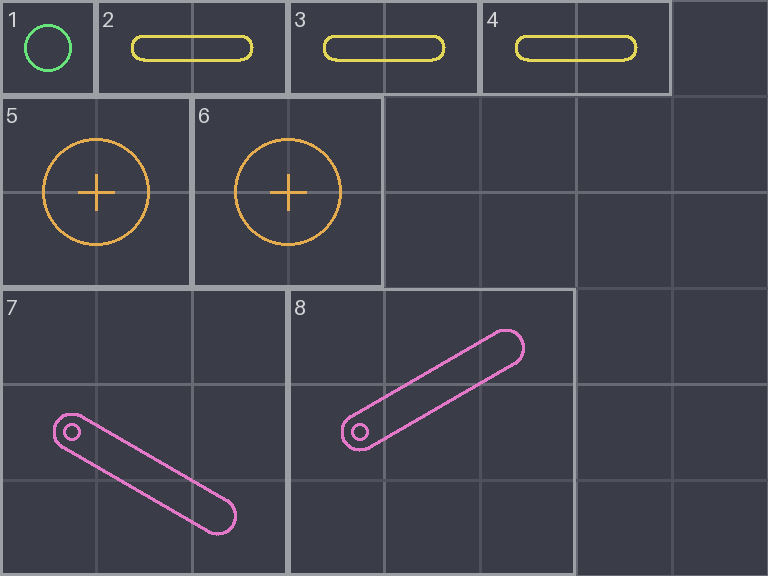
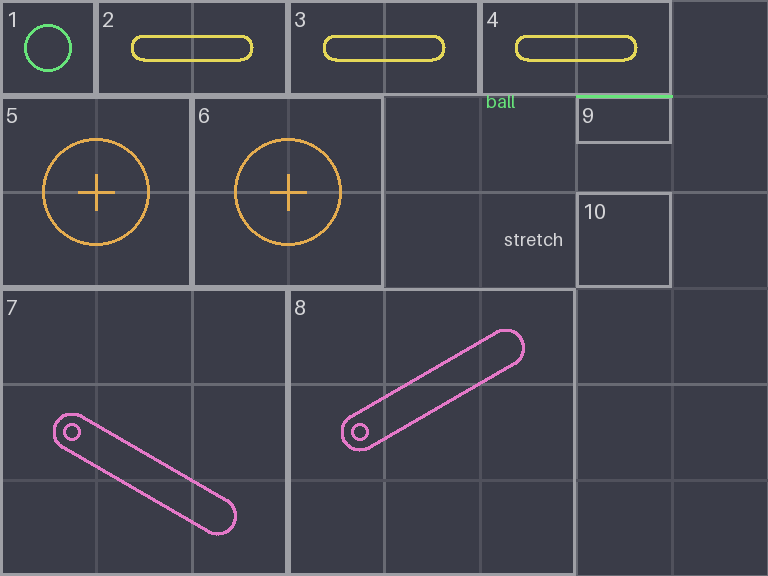
ピンボール：↓で打ち出しバネが沈み込み、離すと戻る演出（見た目のみ・絵が無ければ図形）
Claude-Session: https://claude.ai/code/session_01YTg7wkFtbfFHaZUyiFTSL5

Changed region(s): [[0.6562, 0.3125, 0.875, 0.5], [0.75, 0.1562, 0.875, 0.25], [0.625, 0.1562, 0.6875, 0.1875]]

diff --git a/SboCli/src/SboCliDrawScreen.cpp b/SboCli/src/SboCliDrawScreen.cpp
@@ -903,6 +903,103 @@ static void PbArtBltRot(CImg32 *pSrc, int sx, int sy, int nPivX, int nPivY, int 
 	}
 }
 
+/* 絵（w×h）を縦だけ dh 行に伸び縮みして (dx,dy) へ（最近傍。切り取り範囲の中だけ） */
+static void PbArtBltStretchV(CImg32 *pSrc, int sx, int sy, int w, int h, int dx, int dy, int dh)
+{
+	int r, i;
+	DWORD dwCl;
+
+	for (r = 0; r < dh; r ++) {
+		int y = dy + r, ys = sy + r * h / dh;
+		PDWORD pDst;
+		if ((y < s_nPzT) || (y >= s_nPzB)) {
+			continue;
+		}
+		pDst = (PDWORD)(g_pDibDrawMap->GetBits () + (size_t)(g_pDibDrawMap->Height () - 1 - y) * g_pDibDrawMap->Width () * 4);
+		for (i = 0; i < w; i ++) {
+			int x = dx + i;
+			if ((x < s_nPzL) || (x >= s_nPzR)) {
+				continue;
+			}
+			if (PbArtPixel (pSrc, sx + i, ys, &dwCl)) {
+				pDst[x] = dwCl;
+			}
+		}
+	}
+}
+
+/* 打ち出しのバネ（見た目だけ）：レーンの床の下に穴（暗い箱）を重ね、頭（受け皿）を nSpring ドット沈めて、コイルを縮める。
+   休み位置の球は頭の上に乗って一緒に沈む。絵（部品シートのバネ）が無ければ、頭は横棒・コイルは線のジグザグ。
+   穴は盤の下端より下へはみ出すので、切り取り範囲の下端を穴の深さまで広げて描く */
+static void PbDrawSpring(HDC hDC, const PINBALLDRAW &D, int sx, int sy, int ty0, CImg32 *pParts, const int nScrL, const int nScrT, const int nScrR, const int nScrB)
+{
+	const PinballTable &T = PinballGetTable ();
+	const int nSaveL = s_nPzL, nSaveT = s_nPzT, nSaveR = s_nPzR, nSaveB = s_nPzB;		/* 窓に切り取った範囲（終わりに戻す） */
+	const int nFloor = ty0 + PB_LANE_FLOOR, nBottom = nFloor + PBART_SPRING_WELL_H;
+	const int cx = sx + PbPx (T.nStartX), nHeadY = nFloor + D.nSpring, nCoilTop = nHeadY + PBART_SPRING_HEAD_H;
+	const int nWellL = sx + PB_LANE_L, nWellR = sx + PB_WALL_R + 2;
+	int yy, i;
+
+	/* 床が窓の外（窓が上へ動いている間）は描かない。窓の下端より下へは穴の深さまで */
+	const BOOL bVis = ((nFloor >= s_nPzT) && (nFloor < sy + PB_VIEW_H)) ? TRUE : FALSE;
+
+	if (bVis) {
+	s_nPzL = max (nScrL, nWellL);			/* 画面の範囲（窓ではなく）に、穴の範囲を重ねる */
+	s_nPzR = min (nScrR, nWellR);
+	s_nPzT = max (nScrT, nFloor);
+	s_nPzB = min (nScrB, nBottom);
+	/* 穴（床の絵を隠す暗い箱。左右と底に細い縁） */
+	for (yy = nFloor; yy < nBottom; yy ++) {
+		PuzSpan (hDC, nWellL, yy, nWellR - nWellL, RGB (20, 20, 38), 255);
+		if (yy >= nBottom - 2) {
+			PuzSpan (hDC, nWellL, yy, nWellR - nWellL, RGB (84, 70, 76), 255);
+		} else {
+			PuzSpan (hDC, nWellL, yy, 2, RGB (84, 70, 76), 255);
+			PuzSpan (hDC, nWellR - 2, yy, 2, RGB (84, 70, 76), 255);
+		}
+	}
+	{
+		const int nCoilBottom = nBottom - 2;
+		const int nCoilH = nCoilBottom - nCoilTop;
+		if (pParts) {
+			if (nCoilH > 0) {
+				PbArtBltStretchV (pParts, PBART_SPRING_X, PBART_SPRING_COIL_Y, PBART_SPRING_COIL_W, PBART_SPRING_COIL_H,
+					cx - PBART_SPRING_COIL_W / 2, nCoilTop, nCoilH);
+			}
+			PbArtBlt (pParts, PBART_SPRING_X, PBART_SPRING_HEAD_Y, PBART_SPRING_HEAD_W, PBART_SPRING_HEAD_H, cx - PBART_SPRING_HEAD_W / 2, nHeadY);
+		} else {
+			/* コイル：線のジグザグ（縮むと細かくなる） */
+			if (nCoilH > 0) {
+				int nZig = 6, nPrevX = cx, nPrevY = nCoilTop;
+				for (i = 1; i <= nZig; i ++) {
+					int zx = cx + ((i & 1) ? 5 : -5), zy = nCoilTop + nCoilH * i / nZig;
+					if (i == nZig) { zx = cx; }
+					PbLine (hDC, nPrevX, nPrevY, zx, zy, 1, RGB (200, 200, 215));
+					nPrevX = zx; nPrevY = zy;
+				}
+			}
+			/* 頭：横棒 */
+			for (yy = 0; yy < PBART_SPRING_HEAD_H / 2; yy ++) {
+				PuzSpan (hDC, cx - 6, nHeadY + yy, 12, RGB (235, 235, 245), 255);
+			}
+		}
+	}
+	/* 球は床の上から穴の中まで（下端だけ穴の深さまで広げる） */
+	s_nPzL = nSaveL; s_nPzR = nSaveR; s_nPzT = nSaveT; s_nPzB = min (nScrB, nBottom);
+	}
+	/* 休み位置の球（頭の上に乗って沈む） */
+	if (D.bBallShow && D.bBallReady) {
+		int bx = sx + PbPx (D.nBallX), by = ty0 + PbPx (D.nBallY) + D.nSpring;
+		if (pParts) {
+			PbArtBlt (pParts, PBART_BALL_X, PBART_BALL_Y, PBART_BALL_S, PBART_BALL_S, bx - PBART_BALL_S / 2, by - PBART_BALL_S / 2);
+		} else {
+			PbFillCircle (hDC, bx, by, PbPx (PB_BALL_R), RGB (235, 235, 235));
+			PbFillCircle (hDC, bx - 1, by - 1, 1, RGB (255, 255, 255));
+		}
+	}
+	s_nPzL = nSaveL; s_nPzT = nSaveT; s_nPzR = nSaveR; s_nPzB = nSaveB;
+}
+
 static void DrawPinballOne(HDC hDC, const PINBALLDRAW &D, int sx, int sy, BOOL bTop)
 {
 	const PinballTable &T = PinballGetTable ();
@@ -968,8 +1065,12 @@ static void DrawPinballOne(HDC hDC, const PINBALLDRAW &D, int sx, int sy, BOOL b
 				PbArtBltRot (pArtParts, bUp ? PBART_FLIP_UP_X : PBART_FLIP_REST_X, PBART_FLIP_Y, PBART_FLIP_PX, PBART_FLIP_PY,
 					sx + PbPx (i ? T.nPivotRx : T.nPivotLx), ty0 + PbPx (T.nPivotY), PbFlipDeg (nAng) - nPoseDeg, i ? TRUE : FALSE, 46);
 			}
+			/* 打ち出しのバネ（絵にバネが無い古い部品シートなら図形のバネ）と、休み位置の球 */
+			if (!St.byIdle) {
+				PbDrawSpring (hDC, D, sx, sy, ty0, PinballArtHasSpring () ? pArtParts : NULL, nClipL, nClipT, nClipR, nClipB);
+			}
 			/* ボール */
-			if (D.bBallShow && !St.byIdle) {
+			if (D.bBallShow && !St.byIdle && !D.bBallReady) {
 				PbArtBlt (pArtParts, PBART_BALL_X, PBART_BALL_Y, PBART_BALL_S, PBART_BALL_S,
 					sx + PbPx (D.nBallX) - PBART_BALL_S / 2, ty0 + PbPx (D.nBallY) - PBART_BALL_S / 2);
 			}
@@ -1032,8 +1133,12 @@ static void DrawPinballOne(HDC hDC, const PINBALLDRAW &D, int sx, int sy, BOOL b
 			PbFillCircle (hDC, sx + PbPx (tx), ty0 + PbPx (ty), 3, RGB (235, 235, 245));
 			PbFillCircle (hDC, sx + px, ty0 + py, 1, RGB (90, 90, 120));
 		}
+		/* 打ち出しのバネ（図形）と、休み位置の球 */
+		if (!bArt && !St.byIdle) {
+			PbDrawSpring (hDC, D, sx, sy, ty0, NULL, nClipL, nClipT, nClipR, nClipB);
+		}
 		/* ボール */
-		if (D.bBallShow && !St.byIdle) {
+		if (D.bBallShow && !St.byIdle && !D.bBallReady) {
 			int bx = sx + PbPx (D.nBallX), by = ty0 + PbPx (D.nBallY);
 			PbFillCircle (hDC, bx, by, PbPx (PB_BALL_R), RGB (235, 235, 235));
 			PbFillCircle (hDC, bx - 1, by - 1, 1, RGB (255, 255, 255));

diff --git a/SboCli/src/SboCliPinball.cpp b/SboCli/src/SboCliPinball.cpp
@@ -64,6 +64,9 @@ typedef struct _PBVIEW {
 	BOOL					bCam;			/* nCamFp が使える */
 	int						nCamFp;			/* 窓の上端の盤上の位置（1/256 ドット） */
 	DWORD					dwCamTime;
+	/* 打ち出しのバネの沈み（見た目だけ。1/256 ドット） */
+	int						nSpringFp;
+	DWORD					dwSpringTime;
 } PBVIEW;
 static PBVIEW s_aView[PINBALL_VIEW_MAX];
 
@@ -454,26 +457,80 @@ static void CamUpdate(PBVIEW *pView, PPINBALLDRAW pOut, DWORD dwNow, BOOL bFollo
 /* 差し替え絵を読む（初めて描く時に 1 回だけ。リソースが無い・形式違い・大きさ違いなら図形で描く） */
 extern void ReadGrpData2(LPSTR pszName, CImg32 **pDib, int nSize);	/* SboCliMain.cpp */
 
-BOOL GetPinballArt(CImg32 **ppBg, CImg32 **ppParts)
-{
-	static int s_nState = 0;				/* 0=未読み込み・1=使える・2=使わない */
-	static CImg32 *s_pBg = NULL, *s_pParts = NULL;
+static int s_nArtState = 0;				/* 0=未読み込み・1=使える・2=使わない */
+static CImg32 *s_pArtBg = NULL, *s_pArtParts = NULL;
+static BOOL s_bArtSpring = FALSE;			/* 部品シートにバネの絵がある */
 
-	if (s_nState == 0) {
-		s_nState = 2;
-		ReadGrpData2 ("IDP_PINBALL_BG", &s_pBg, 1);
-		ReadGrpData2 ("IDP_PINBALL_PARTS", &s_pParts, 1);
-		if (s_pBg && s_pParts && (s_pBg->Width () == PB_W) && (s_pBg->Height () == PB_H) &&
-			(s_pParts->Width () >= PBART_PARTS_W) && (s_pParts->Height () >= PBART_PARTS_H)) {
-			s_nState = 1;
+/* 部品シートの四角（x,y,w,h）に、透明（黒）でないドットが 1 つでもあるか */
+static BOOL ArtCellUsed(CImg32 *pImg, int x, int y, int w, int h)
+{
+	int i, j;
+
+	for (j = y; j < y + h; j ++) {
+		PDWORD pRow = (PDWORD)(pImg->GetBits () + (size_t)(pImg->Height () - 1 - j) * pImg->Width () * 4);
+		for (i = x; i < x + w; i ++) {
+			if (pRow[i] & 0x00FFFFFF) {
+				return TRUE;
+			}
 		}
 	}
-	if (s_nState != 1) {
+	return FALSE;
+}
+
+BOOL GetPinballArt(CImg32 **ppBg, CImg32 **ppParts)
+{
+	if (s_nArtState == 0) {
+		s_nArtState = 2;
+		ReadGrpData2 ("IDP_PINBALL_BG", &s_pArtBg, 1);
+		ReadGrpData2 ("IDP_PINBALL_PARTS", &s_pArtParts, 1);
+		if (s_pArtBg && s_pArtParts && (s_pArtBg->Width () == PB_W) && (s_pArtBg->Height () == PB_H) &&
+			(s_pArtParts->Width () >= PBART_PARTS_W) && (s_pArtParts->Height () >= PBART_PARTS_H)) {
+			s_nArtState = 1;
+			s_bArtSpring = ArtCellUsed (s_pArtParts, PBART_SPRING_X, PBART_SPRING_HEAD_Y, PBART_SPRING_HEAD_W, PBART_SPRING_HEAD_H) &&
+				ArtCellUsed (s_pArtParts, PBART_SPRING_X, PBART_SPRING_COIL_Y, PBART_SPRING_COIL_W, PBART_SPRING_COIL_H);
+		}
+	}
+	if (s_nArtState != 1) {
 		return FALSE;
 	}
-	*ppBg = s_pBg;
-	*ppParts = s_pParts;
+	*ppBg = s_pArtBg;
+	*ppParts = s_pArtParts;
 	return TRUE;
+}
+
+BOOL PinballArtHasSpring(void)
+{
+	CImg32 *pBg, *pParts;
+
+	return GetPinballArt (&pBg, &pParts) && s_bArtSpring;
+}
+
+/* 打ち出しのバネの沈み（見た目だけ。物理・サーバーは関係ない）。
+   球が待っていて↓で溜めている間は、溜め量（nCharge 0〜100）に応じて沈む。観戦者の nCharge は約 0.1 秒ごとの段なので、沈むほうは
+   少しずつ追いかけて滑らかにする。離したら PBART_SPRING_BACK_MS で元まで戻る（球は元の待機位置から出ていく） */
+static void SpringUpdate(PBVIEW *pView, PPINBALLDRAW pOut, DWORD dwNow, BOOL bReady)
+{
+	const int nMax = PBART_SPRING_DEPTH * PB_FP;
+	int nTarget = 0, nDt = (int)(dwNow - pView->dwSpringTime);
+
+	if (nDt < 0) nDt = 0;
+	if (nDt > 200) nDt = 200;
+	if (bReady && (pOut->nCharge > 0)) {
+		nTarget = nMax * pOut->nCharge / 100;
+	}
+	if (nTarget >= pView->nSpringFp) {
+		/* 沈む：溜め切るまでの時間（PB_CHARGE_MS）の半分ほどの速さまで。自分の押した瞬間はすぐ沈み始める */
+		int nStep = (int)((long long)nMax * nDt * 2 / PB_CHARGE_MS) + PB_FP / 2;
+		pView->nSpringFp = min (nTarget, pView->nSpringFp + nStep);
+	} else {
+		pView->nSpringFp = max (nTarget, pView->nSpringFp - (int)((long long)nMax * nDt / PBART_SPRING_BACK_MS));
+	}
+	pView->dwSpringTime = dwNow;
+	if (pView->nSpringFp != nTarget) {
+		g_bDraw = TRUE;
+	}
+	pOut->nSpring = (pView->nSpringFp + PB_FP / 2) / PB_FP;
+	pOut->bBallReady = bReady;
 }
 
 BOOL GetPinballView(int nIdx, PPINBALLDRAW pOut)
@@ -481,7 +538,7 @@ BOOL GetPinballView(int nIdx, PPINBALLDRAW pOut)
 	PBVIEW *pView;
 	DWORD dwNow = timeGetTime ();
 	int i;
-	BOOL bPlay = FALSE;
+	BOOL bPlay = FALSE, bReady = FALSE;
 
 	if ((nIdx < 0) || (nIdx >= PINBALL_VIEW_MAX) || (g_byGameState != GAMESTATE_MOVE)) {
 		return FALSE;
@@ -523,6 +580,7 @@ BOOL GetPinballView(int nIdx, PPINBALLDRAW pOut)
 		if (pView->St.byIdle) {
 			pView->bCam = FALSE;		/* 待機中の台は下端を映す（次に遊ぶ時も下端から） */
 		}
+		pView->nSpringFp = 0;
 		CamUpdate (pView, pOut, dwNow, FALSE);
 		return TRUE;
 	}
@@ -532,6 +590,7 @@ BOOL GetPinballView(int nIdx, PPINBALLDRAW pOut)
 		pOut->nBallY = pView->Sim.nY + pView->nOffY;
 		pOut->bBallShow = (pView->Sim.nPhase == PB_PHASE_PLAY) || (pView->Sim.nPhase == PB_PHASE_READY);
 		bPlay = (pView->Sim.nPhase == PB_PHASE_PLAY);
+		bReady = (pView->Sim.nPhase == PB_PHASE_READY);
 		pOut->nAngL = pView->Sim.nAngL;
 		pOut->nAngR = pView->Sim.nAngR;
 		pOut->nTargetMask = pView->Sim.nTargetMask;
@@ -541,7 +600,9 @@ BOOL GetPinballView(int nIdx, PPINBALLDRAW pOut)
 		Interpolate (pView, dwNow, pOut);
 		pOut->nCharge = (pView->St.byHeld & 4) ? pView->St.byCharge : 0;
 		bPlay = (pView->St.byPhase == PB_PHASE_PLAY);
+		bReady = (pView->St.byPhase == PB_PHASE_READY);
 	}
+	SpringUpdate (pView, pOut, dwNow, bReady);
 	CamUpdate (pView, pOut, dwNow, pOut->bBallShow && bPlay);
 	return TRUE;
 }

diff --git a/SboCli/src/SboCliPinball.h b/SboCli/src/SboCliPinball.h
@@ -19,12 +19,15 @@ typedef struct _PINBALLDRAW {
 	int			nCharge;							/* 溜めている打ち出しの強さ（0〜100 ％。溜めていなければ 0） */
 	DWORD		dwFlashAge[PB_BUMPERS + PB_TARGETS];	/* 当たってからの経過(ms)（PINBALL_FLASH_MS を超えたら光らない） */
 	BOOL		bOver;								/* 「GAME OVER」を出す */
+	int			nSpring;							/* 打ち出しのバネの沈み（ドット。0〜PBART_SPRING_DEPTH。頭と、休み位置にいる球をこれだけ下へずらして描く） */
+	BOOL		bBallReady;							/* 球が打ち出しレーンで待っている（沈みの分だけ球も下へ描く） */
 	int			nCamY;								/* 窓（高さ PB_VIEW_H）の上端が、盤の上端から何ドット下か（0〜PB_YOFS。待機中・打ち出し前は下端 PB_YOFS）。クライアントだけで決める */
 } PINBALLDRAW, *PPINBALLDRAW;
 
 /* 盤の差し替え絵（SboGrpData/grp/pinball_bg.png・pinball_parts.png。docs/pinball-art.md）。
    両方読めて大きさが合っている時だけ TRUE（それ以外は図形で描く）。初めて呼んだ時に読み込む */
 extern BOOL GetPinballArt(CImg32 **ppBg, CImg32 **ppParts);
+extern BOOL PinballArtHasSpring(void);							/* 部品シートにバネの絵（頭・コイル）がある（古い部品シートなら FALSE。バネだけ図形で描く） */
 
 /* 部品の絵の位置（pinball_parts.png。16 ドット格子。左上 x,y と大きさ w,h）。当たり判定の中心が、各セルの (中心 x,中心 y) に重なる */
 #define PBART_PARTS_W		(128)
@@ -48,6 +51,17 @@ extern BOOL GetPinballArt(CImg32 **ppBg, CImg32 **ppParts);
 #define PBART_FLIP_S		(48)
 #define PBART_FLIP_PX		(12)
 #define PBART_FLIP_PY		(24)
+/* 打ち出しのバネ（↓で溜める間、頭と球が沈み、コイルが縮む。見た目だけ）。レーンの床の下に、バネの穴（暗い箱）を重ねて描く */
+#define PBART_SPRING_X		(96)	/* バネの頭（球を乗せる受け皿）16×8 を (96,16)。上辺が球の底に当たる。中心の横 8 */
+#define PBART_SPRING_HEAD_Y	(16)
+#define PBART_SPRING_HEAD_W	(16)
+#define PBART_SPRING_HEAD_H	(8)
+#define PBART_SPRING_COIL_Y	(32)	/* バネのコイル 16×16 を (96,32)。縦に伸び縮みして頭の下から穴の底までを埋める（縮むと行を間引く） */
+#define PBART_SPRING_COIL_W	(16)
+#define PBART_SPRING_COIL_H	(16)
+#define PBART_SPRING_DEPTH	(12)	/* 溜め切った時に沈むドット数 */
+#define PBART_SPRING_WELL_H	(24)	/* レーンの床（PB_LANE_FLOOR）から下へ、バネの穴の深さ（ドット）。盤の下端（窓の下端）より下へはみ出して描く */
+#define PBART_SPRING_BACK_MS	(100)	/* 離してバネが元に戻るまで(ms) */
 
 extern void RecvDataProcPINBALLSTATE(PBYTE pData, DWORD dwDataSize);	/* 受信データ処理(ピンボールの状態) */
 extern BOOL IsPinballSeated(void);								/* ピンボールの席に座って遊んでいるか（ゲームオーバー直後の少しの間も TRUE） */

diff --git a/tools/pinball/make_art_template.py b/tools/pinball/make_art_template.py
@@ -15,7 +15,7 @@
   pinball_bg_guide.png        背景 160×448 に当たり判定のガイド（薄い色）を重ねたもの（描く時の下敷き。ゲームには使わない）
   pinball_bg_guide_x3.png     同じものを 3 倍に拡大（人が眺める用）
   pinball_bg_empty.png        背景の空版（透明＝黒のインデックスカラー PNG。この上に描いて pinball_bg.png にする）
-  pinball_parts_guide.png     部品シート 96×96 に枠・番号・中心・当たり判定のガイドを重ねたもの
+  pinball_parts_guide.png     部品シート 128×96 に枠・番号・中心・当たり判定のガイドを重ねたもの
   pinball_parts_guide_x6.png  同じものを 6 倍に拡大
   pinball_parts_empty.png     部品シートの空版（同上）
   layout.json                 寸法の一覧（Codex などに読ませる用）
@@ -220,6 +220,12 @@ def draw_parts_guide(P, L, S):
 		ty = py + L['FLIP_LEN'] * math.sin(math.radians(deg))
 		g.capsule(px, py, tx, ty, L['FLIP_R'], C_FLIP)
 		g.circle(px, py, 1.5, C_FLIP, 1)
+	# 9・10 打ち出しのバネ（頭・コイル）。↓で溜める間、頭と球がレーンの床の下の「穴」へ沈み、コイルが縮む（見た目だけ）
+	cx, cy = cell(9, P['PBART_SPRING_X'], P['PBART_SPRING_HEAD_Y'], P['PBART_SPRING_HEAD_W'], 'head', P['PBART_SPRING_HEAD_H'])
+	g.line(P['PBART_SPRING_X'], P['PBART_SPRING_HEAD_Y'], P['PBART_SPRING_X'] + P['PBART_SPRING_HEAD_W'], P['PBART_SPRING_HEAD_Y'], C_START, 1)
+	g.text(P['PBART_SPRING_X'] - 15, P['PBART_SPRING_HEAD_Y'] - 1, 'ball', C_START, 6)
+	cell(10, P['PBART_SPRING_X'], P['PBART_SPRING_COIL_Y'], P['PBART_SPRING_COIL_W'], 'coil', P['PBART_SPRING_COIL_H'])
+	g.text(P['PBART_SPRING_X'] - 12, P['PBART_SPRING_COIL_Y'] + 6, 'stretch', C_TEXT, 6)
 	return g.finish()
 
 

diff --git a/tools/pinball/check_art.py b/tools/pinball/check_art.py
@@ -59,6 +59,13 @@ def main():
 	ng = []
 	bg = check(a.bg, L['W'], L['H'], '背景', ng)
 	parts = check(a.parts, P['PBART_PARTS_W'], P['PBART_PARTS_H'], '部品', ng)
+	if parts is not None and not ng:
+		# バネの絵（頭・コイル）が空なら、バネは図形（線のジグザグ）で描かれる
+		def used(x, y, w, h):
+			return any(parts.getpixel((i, j)) != (0, 0, 0) for j in range(y, y + h) for i in range(x, x + w))
+		if not (used(P['PBART_SPRING_X'], P['PBART_SPRING_HEAD_Y'], P['PBART_SPRING_HEAD_W'], P['PBART_SPRING_HEAD_H']) and
+				used(P['PBART_SPRING_X'], P['PBART_SPRING_COIL_Y'], P['PBART_SPRING_COIL_W'], P['PBART_SPRING_COIL_H'])):
+			print('部品: 注意: バネの絵（9 頭・10 コイル）が空です。打ち出しのバネは図形で描かれます')
 	if a.preview and bg is not None and not ng:
 		# 下地の上に絵（黒＝透明は下地のまま）を載せ、当たり判定のガイドの線だけをその上に重ねる（3 倍）
 		size = (bg.width * 3, bg.height * 3)

diff --git a/docs/pinball-art.md b/docs/pinball-art.md
@@ -68,8 +68,16 @@
 | 6 | バンパー（光る） | (32,16) | 32×32 | 同上 | 当たった直後 0.18 秒 |
 | 7 | 左フリッパー（下がり） | (0,48) | 48×48 | 軸 (12,24)。軸から長さ 28 で水平から**下へ 30°**。太さの半分 3 | 休み位置の姿 |
 | 8 | 左フリッパー（上がり） | (48,48) | 48×48 | 軸 (12,24)。軸から長さ 28 で水平から**上へ 30°** | 上がり切った姿 |
+| 9 | バネの頭（受け皿） | (96,16) | 16×8 | 横の中心 8。**上辺（y=0）が球の底に当たる** | ↓で溜める間、球と一緒に沈む |
+| 10 | バネのコイル | (96,32) | 16×16 | 横の中心 8 | 頭の下から穴の底までを埋める（縦に伸び縮み） |
 
 - 空いている所（右端・下端）は透明（黒）のままにしておく（将来の部品用）。
+- **打ち出しのバネ（9・10）**：見た目だけの演出（物理・サーバーは変わらない）。球がレーンで待っている間に ↓ を押している（溜め 0〜100 ％）と、頭と球が最大 12 ドット（`PBART_SPRING_DEPTH`）下へ沈み、コイルが縮む。離すと約 0.1 秒（`PBART_SPRING_BACK_MS`）で元の位置まで戻り、球は元の待機位置から飛び出す。観戦の人にも同じに見える（溜め量はサーバーが 0.1 秒ごとに送っている）。
+  - **穴**：レーンの床（y=440）の下に、バネを入れる穴（x=141〜158・深さ 24 ドット＝`PBART_SPRING_WELL_H`。盤の下端 y=448 より 16 ドット下へはみ出す）を、ゲームが暗い箱（(20,20,38)・縁 (84,70,76)）で重ねて描く。床の絵（y=440〜447）は箱で隠れる。穴の中はバネの絵だけを描く。
+  - **頭（9）**：16×8。上辺の高さが、球の底（球は床に乗っている時、底が y=440）。上辺は球が乗る面なので、中央を少し凹ませた受け皿にするとよい。左右 2 ドットずつは透明にして（レーンの内側の幅は 14 ドット）、実際の絵は中の 12 ドット幅に収める。
+  - **コイル（10）**：16×16 を、頭の下から穴の底（床から 22 ドット下）までに縦へ伸び縮みして埋める（休み位置で約 14 行・溜め切りで約 2 行。最近傍で行を間引く）。だから**縦に繰り返せる絵**（同じ巻きの輪が 4〜8 ドット周期で並ぶ）にして、上下の端に特別な絵を置かない。左右 2 ドットは透明、中の 12 ドット幅に巻き線を描く。
+  - 暗い穴の上に載るので、明るい金属色（灰青〜白）＋暗い縁取りにすると見える。
+  - 9・10 が空（古い部品シート）の時は、頭は白い横棒・コイルは線のジグザグの図形で描く（絵と同じ動き）。
 - **フリッパー**：右のフリッパーは左の絵を左右反転して使う（描くのは左だけ）。途中の角度（5° ずつ 12 段階で動く）は、近い方の姿（段階 6 未満は 7、以上は 8）を、今の角度との差だけ軸のまわりに回して描く（最近傍。差は最大 30°）。だから絵は軸 (12,24) を中心に、先端へ向かって描き、軸の丸いキャップを軸の位置に置く。
 - 部品の絵は、当たり判定の図形（テンプレートのガイド）の**輪郭にぴったり**重ねる。球やバンパーが絵より大きく／小さく見えると、当たったのに触れていない・触れていないのに跳ねる、に見える。縁取りの 1 ドットはガイドの線の外側に出してよい（セルの中に収める）。
 

diff --git a/docs/pinball.md b/docs/pinball.md
@@ -29,6 +29,7 @@
 - 盤全体の高さは `PB_H`（既定 448＝窓 2 画面分。`PB_VIEW_H` 以上なら何でもよい）。物理は盤全体で動き、窓がボールを追って上下に動く（下の「スクロール（カメラ）」）。`PB_H` と同じ（224）にするとスクロールのない 1 画面の台になる。
 - 配置の決め方：フリッパー・穴・斜め壁・打ち出しレーンの床・下側のバンパー 3 個・ターゲット 3 個は盤の下端に寄せる（座標に `PB_YOFS`＝`PB_H-PB_VIEW_H` を足す）。上部のアーチは盤の最上部（`PB_ARCH_CY`）。盤が窓より十分高い時（`PB_UPPER`＝`PB_YOFS` が 120 以上）は、アーチの下にバンパー 3 個・ターゲット 3 個、中ほどにバンパー 2 個を足す（合計バンパー 8・ターゲット 6。ターゲット 6 つ全部倒すとボーナス）。縦（y）は盤の上端からのドット数そのまま、横（x）は 160 を `PB_W` に比例させる。
 - 左右の壁・上部のアーチ（半円）・左右の下の斜め壁（フリッパー溝）・左右のフリッパー・中央下の穴・右端の打ち出しレーン（プランジャー。盤の上のアーチまで続く）・バンパー・ターゲット。絵は図形（円・線・矩形）だけ（`SboCliDrawScreen.cpp` の `DrawPinball`）。
+- 打ち出しのバネ（見た目だけ）：球が待っている間に ↓ を押している（溜め量 `nCharge` 0〜100）と、レーンの床の下の穴へ頭と球が最大 12 ドット（`PBART_SPRING_DEPTH`）沈み、離すと約 0.1 秒で戻る（球は元の待機位置から出る）。観戦者は、サーバーが 0.1 秒ごとに送る溜め量（`byHeld` の bit2・`byCharge`）で同じ見た目になる（通信は増えていない）。
 - 盤の絵は、`SboGrpData/grp/pinball_bg.png`・`pinball_parts.png` を置くとその絵で描く（無い・読めない時は図形のまま）。素材の仕様・テンプレート・差し替え手順は `docs/pinball-art.md`。
 - 打ち出しの強さ：盤が高いほどレーンが長いので、最大の強さは盤の高さから決まる（`PinballTable::nLaunchMax`＝レーンの床からアーチの縁まで届くのに要る速さの 1.3 倍。`PB_LAUNCH_REACH`＝17 は二乗の比で 1.7 倍）。レーンの中だけ速さの上限が高い（`PB_VMAX_LANE`。盤の中は `PB_VMAX` のまま）。
 

diff --git a/tools/pinball/codex-prompt.md b/tools/pinball/codex-prompt.md
@@ -66,6 +66,9 @@ python3 tools/pinball/make_art_template.py -o out/pinball-art
 5〜6. バンパー（32×32。中心 (16,16)。半径 9 の丸いキノコ形。ふつう／光る）
 7〜8. 左フリッパー（48×48。軸 (12,24)。軸から長さ 28 で、7=下へ 30°・8=上へ 30° の姿。太さ 6 の丸い棒。軸に丸いキャップ）
 - 右のフリッパーはゲームが左右反転で作る。左だけ描く。
+9. バネの頭（16×8。シート (96,16)。球を乗せる受け皿。上辺 y=0 が球の底。左右 2 ドットは透明にして中の 12 ドット幅に描く。中央を少し凹ませる。明るい金属＋暗い縁取り）
+10. バネのコイル（16×16。シート (96,32)。**縦に繰り返せる**巻き線の絵。ゲームがこれを縦に伸び縮みして、頭の下から穴の底までを埋める。休み位置で約 14 行・溜め切りで約 2 行に縮む。上下の端に特別な絵を置かず、4〜8 ドット周期の輪を並べる。左右 2 ドットは透明、中の 12 ドット幅）
+- 9・10 は「↓で溜める間、頭と球が一緒に最大 12 ドット沈み、コイルが縮む」見た目だけの演出に使う。背景（`pinball_bg.png`）の打ち出しレーンの床（y=440〜447）の下に、ゲームが暗い箱（穴）を重ねるので、背景にはバネを描かなくてよい。穴は暗い色なので、バネは明るい金属色にする。
 - 空いた所は透明（黒）のまま。
 
 ### 4. 保存して形式を調べる
